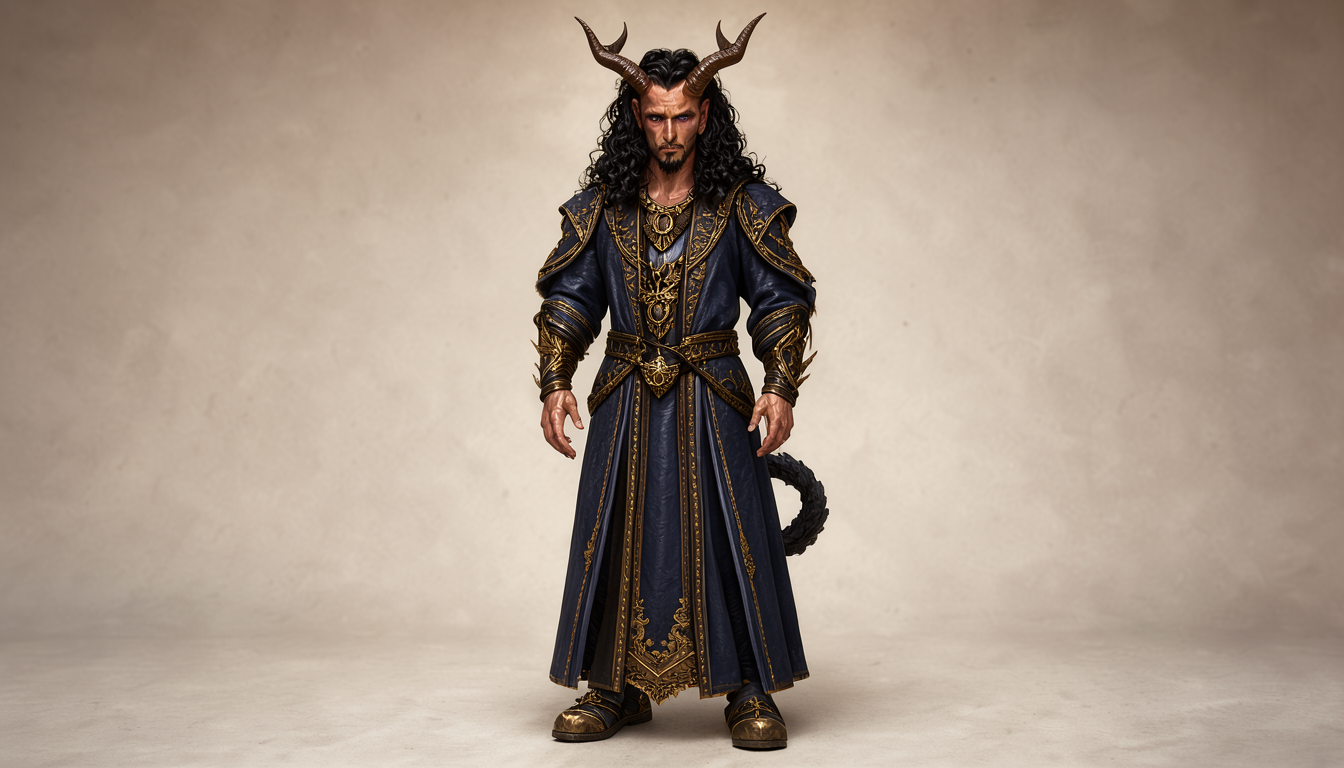
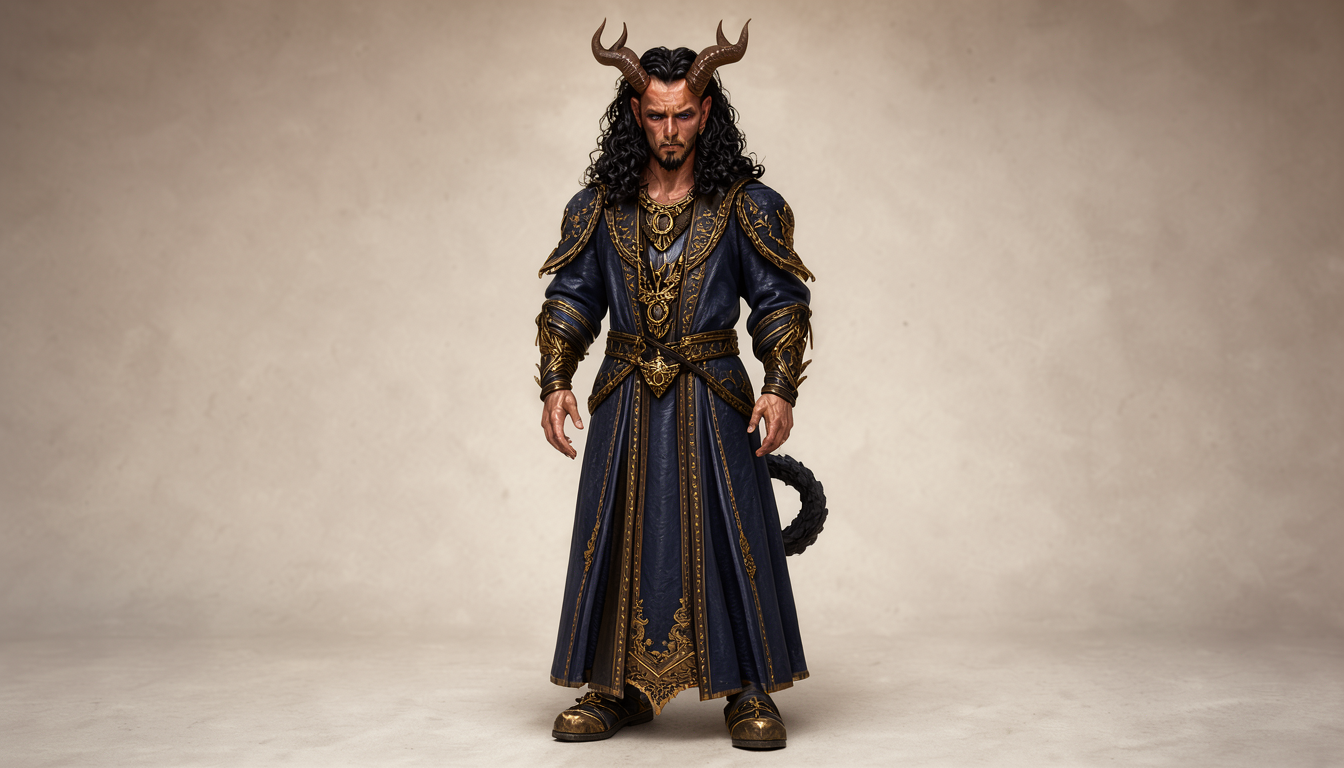
sheet-test: Keechwah lab batch 10 — matte eye finish, versioned snapshot

diff --git a/tests/test_keechwahlab.py b/tests/test_keechwahlab.py
@@ -32,13 +32,14 @@ ARM_B_BLOCK = (
     "gold jewelry, NO wings, sharply pointed canines, a thick tiefling tail behind him, "
     "exactly two arms"
 )
-# Batch 9: solid-not-glowing eyes — batch-8 verdict pins the finish fault
-# while keeping the bible-approved purple hue
-BATCH9_BLOCK = (
+# Batch 10: matte finish — batch-9 verdict shows the glow surviving as
+# purple spill onto the face around the eye, so the finish needs a
+# positive matte word, not just the absence of "glowing"
+BATCH10_BLOCK = (
     "adult male tiefling warlock, warm bronze-tan skin with a faint red cast, "
     "long curly black hair, goatee, large curved horns rising from the crown of his "
-    "skull with bases buried deep in his thick curly hair, solid purple eyes with "
-    "no visible sclera or pupil, male facial features, dark blue/gold robes, "
+    "skull with bases buried deep in his thick curly hair, solid matte purple eyes "
+    "with no visible sclera or pupil, male facial features, dark blue/gold robes, "
     "gold jewelry, NO wings, sharply pointed canines, "
     "a thick tiefling tail behind him, exactly two arms"
 )
@@ -53,7 +54,7 @@ class TestKeechwahLabDescriptions(unittest.TestCase):
 
     def test_baseline_block_is_arm_b_verbatim(self):
         text, sources = self.load_block()
-        self.assertEqual(text, BATCH9_BLOCK, "batch-9 block must carry solid-not-glowing eyes")
+        self.assertEqual(text, BATCH10_BLOCK, "batch-10 block must carry the matte eye finish")
         self.assertNotIn("glowing", text, "glow must be gone from the eyes")
         self.assertIn("character-bible/Sheets/Keechwah.pdf", sources)
         self.assertIn(KEECHWAH_URL, sources)

diff --git a/character-bible/sheet-test/keechwah-lab/README.md b/character-bible/sheet-test/keechwah-lab/README.md
@@ -21,6 +21,7 @@ overwrite — every generation snapshots to `batches/batch<N>/` with its
 | batch7 | Burial made explicit from the gallery ref: `rising from the crown of his skull with bases buried deep in his thick curly hair` (keepers r10/r13 won by accident of this; rest of ref look NOT adopted) | same k01–k04 |
 | batch8 | 20-seed survey on the batch-7 block (master list seed 20261106, disjoint from all prior) — keeper/horn read | keechwah_r01–r20 |
 | batch9 | Solid-not-glowing eyes: `glowing purple` → `solid purple eyes with no visible sclera or pupil`, hue kept (canon fix, batch-8 keepers r07/r10) | same k01–k04 |
+| batch10 | Matte finish: batch-9 verdict showed the glow surviving as purple spill onto the face, so `matte` joins as a positive finish word | same k01–k04 |
 
 ## Verdicts
 
@@ -28,6 +29,21 @@ overwrite — every generation snapshots to `batches/batch<N>/` with its
   really good. Two defects: horns look tacked-on rather than grown, and
   the red still needs to go lighter. Batch 4 takes skin first, horns next
   (one variable per batch).
+- Batch 4 (human verdict): better, k03 still a little too red — reads
+  seed-specific, not wording. Skin locked at the bronze-tan cast.
+- Batch 5 (human verdict 2026-11-02): k03 has the best horns of the batch
+  (seed 777001 again), rest look off — wording proven on one seed, survey
+  next for hit rate + keepers.
+- Batch 6 (human verdict): keepers r10 (seed 1342234658) + r13 — won by
+  burying the horns in the hair; gallery ref confirms the mechanism.
+- Batch 8 (human verdict 2026-11-02): keepers r07 (1743082206) + r10
+  (106986660). New defect: eyes must read solid single-color, NOT
+  glowing — normal eye shape, one color, no sclera/pupil split (canon).
+  Batch 9 fixes the finish, keeps the hue.
+- Batch 9 (human verdict 2026-11-02): k03 best overall (eyes + decent
+  horns); k02 liked but the glow survives as purple spill onto the face
+  around the eye, not in the eye itself; k01/k04 horns bad. Batch 10
+  targets the finish with `matte`.
 - Batch 4 (human verdict): better, k03 still a little too red — reads
   seed-specific, not wording. Skin locked at the bronze-tan cast.
 - Batch 5 (human verdict 2026-11-02): k03 has the best horns of the batch

diff --git a/character-bible/sheet-test/keechwah-lab/batches/batch10/descriptions.md b/character-bible/sheet-test/keechwah-lab/batches/batch10/descriptions.md
@@ -1,0 +1,16 @@
+# Keechwah Lab — baseline block for seed-robustness testing
+
+Single block source for `keechwah-lab`. Batch 1 is the Arm B Keechwah
+block verbatim (the starting point, as the Shade lab began from its
+Arm B block). Known failure modes from the bible NEVER list to watch
+for: female render, wings (Verruth confusion — Keechwah has NONE),
+hooves, duplicate Keechwahs.
+
+## Keechwah (keechwah)
+
+adult male tiefling warlock, warm bronze-tan skin with a faint red cast, long curly black hair, goatee, large curved horns rising from the crown of his skull with bases buried deep in his thick curly hair, solid matte purple eyes with no visible sclera or pupil, male facial features, dark blue/gold robes, gold jewelry, NO wings, sharply pointed canines, a thick tiefling tail behind him, exactly two arms
+
+Sources:
+- character-bible/Sheets/Keechwah.pdf
+- https://www.dndbeyond.com/species/7-tiefling
+- bible.md locked chunks (main checkout)

diff --git a/character-bible/sheet-test/keechwah-lab/descriptions.md b/character-bible/sheet-test/keechwah-lab/descriptions.md
@@ -8,7 +8,7 @@ hooves, duplicate Keechwahs.
 
 ## Keechwah (keechwah)
 
-adult male tiefling warlock, warm bronze-tan skin with a faint red cast, long curly black hair, goatee, large curved horns rising from the crown of his skull with bases buried deep in his thick curly hair, solid purple eyes with no visible sclera or pupil, male facial features, dark blue/gold robes, gold jewelry, NO wings, sharply pointed canines, a thick tiefling tail behind him, exactly two arms
+adult male tiefling warlock, warm bronze-tan skin with a faint red cast, long curly black hair, goatee, large curved horns rising from the crown of his skull with bases buried deep in his thick curly hair, solid matte purple eyes with no visible sclera or pupil, male facial features, dark blue/gold robes, gold jewelry, NO wings, sharply pointed canines, a thick tiefling tail behind him, exactly two arms
 
 Sources:
 - character-bible/Sheets/Keechwah.pdf
